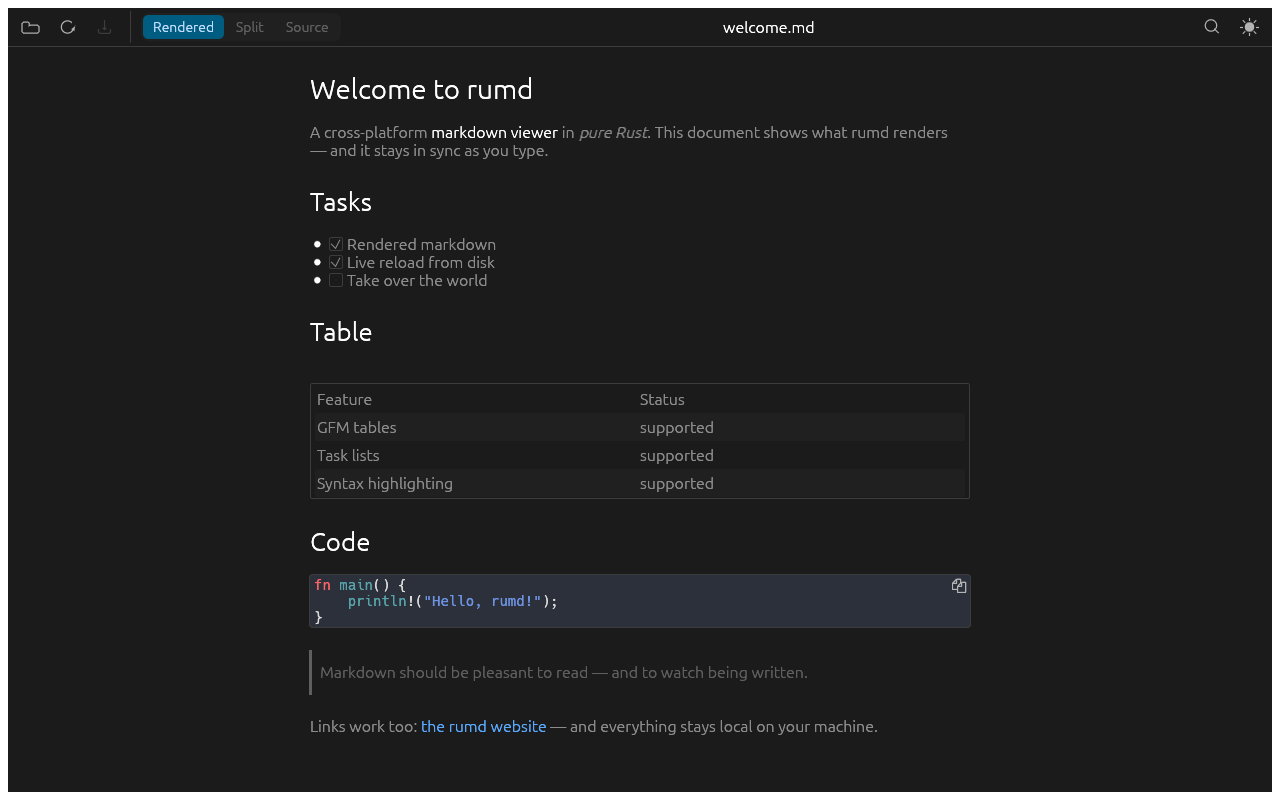
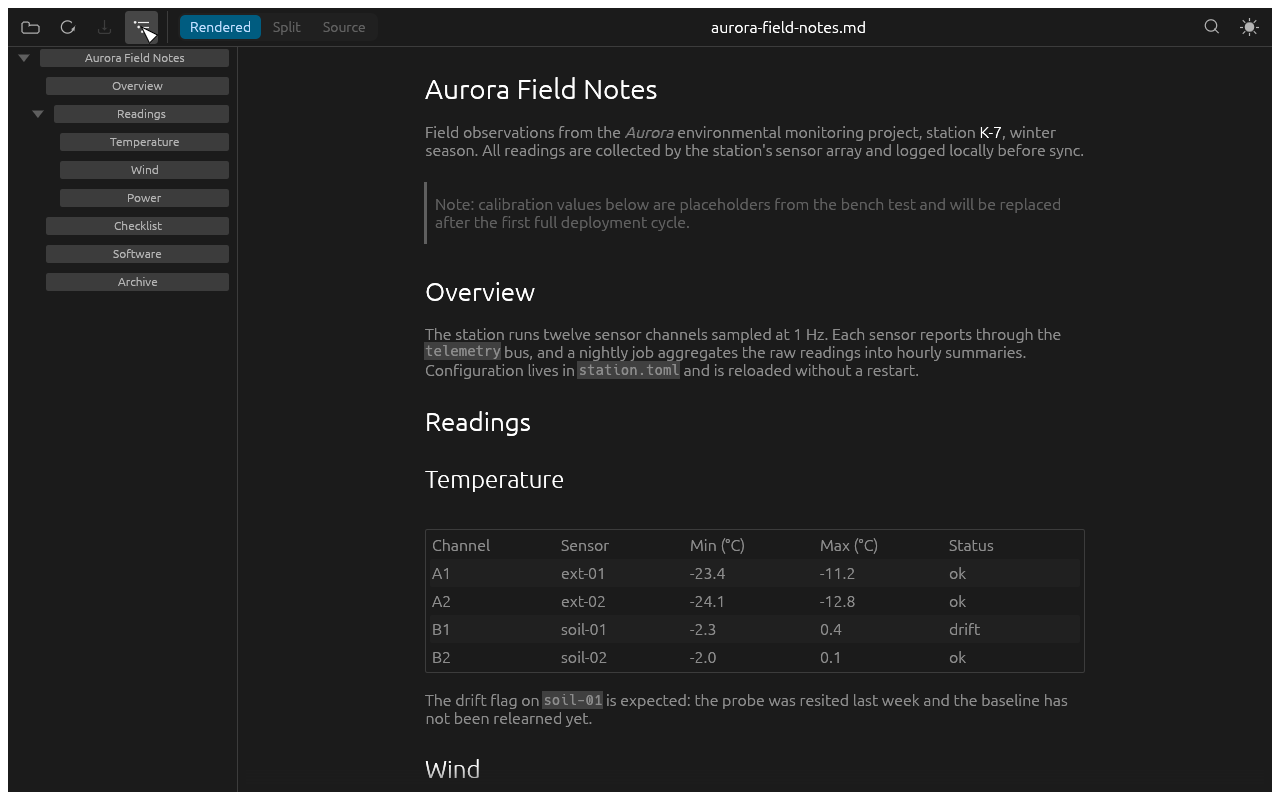
feat: auto-capture website screenshots from a dummy doc on release

diff --git a/src/app.rs b/src/app.rs
@@ -1733,6 +1733,100 @@ mod tests {
         std::fs::remove_file(&doc).unwrap();
     }
 
+    /// Capture the website screenshots into `website/assets/`. Gated behind
+    /// RUMD_CAPTURE=1 so ordinary `cargo test` runs stay hermetic; the
+    /// release workflow runs it with:
+    ///
+    ///     RUMD_CAPTURE=1 cargo test capture_website_screenshots -- --nocapture
+    ///
+    /// Override the destination with RUMD_CAPTURE_DIR. The subject is the
+    /// dummy document in tests/fixtures/sample.md, never a real project
+    /// file.
+    #[test]
+    fn capture_website_screenshots() {
+        if std::env::var("RUMD_CAPTURE").map_or(true, |v| v != "1") {
+            return;
+        }
+        let out_dir = std::env::var("RUMD_CAPTURE_DIR")
+            .map(PathBuf::from)
+            .unwrap_or_else(|_| {
+                PathBuf::from(env!("CARGO_MANIFEST_DIR")).join("website/assets")
+            });
+        std::fs::create_dir_all(&out_dir).unwrap();
+
+        // A friendly dummy name for the website title bar; kept out of
+        // stable_path so the snapshot tests keep their own fixture name.
+        let dir = std::env::temp_dir().join(format!("rumd_capture_{}", std::process::id()));
+        std::fs::create_dir_all(&dir).unwrap();
+        let doc = dir.join("aurora-field-notes.md");
+        let _cwd = CWD_LOCK.lock().unwrap();
+        std::fs::write(&doc, include_str!("../tests/fixtures/sample.md")).unwrap();
+
+        let capture = |name: &str,
+                       theme: egui::ThemePreference,
+                       mode: ViewMode,
+                       toc: bool,
+                       search_query: Option<&str>| {
+            let app = Rc::new(RefCell::new(App::new(None)));
+            {
+                let mut a = app.borrow_mut();
+                a.theme_pref = theme;
+                a.mode = mode;
+                a.open_path(&doc);
+                if let Some(query) = search_query {
+                    a.search.open = true;
+                    a.search.query = query.to_owned();
+                    a.recompute_matches();
+                }
+            }
+            let app_for_ui = app.clone();
+            let mut harness = Harness::builder()
+                .with_size(egui::vec2(1280.0, 800.0))
+                .build_ui(move |ui| {
+                    app_for_ui.borrow_mut().show(ui);
+                });
+            if toc {
+                harness.get_by_label("Table of contents").click();
+            }
+            harness.run();
+            harness.run();
+            let image = harness.render().expect("screenshot render must succeed");
+            image.save(out_dir.join(name)).expect("screenshot save must succeed");
+        };
+
+        capture(
+            "dark-rendered.png",
+            egui::ThemePreference::Dark,
+            ViewMode::Rendered,
+            true,
+            None,
+        );
+        capture(
+            "dark-split.png",
+            egui::ThemePreference::Dark,
+            ViewMode::Split,
+            false,
+            None,
+        );
+        capture(
+            "light-rendered.png",
+            egui::ThemePreference::Light,
+            ViewMode::Rendered,
+            false,
+            None,
+        );
+        capture(
+            "dark-search.png",
+            egui::ThemePreference::Dark,
+            ViewMode::Rendered,
+            false,
+            Some("sensor"),
+        );
+
+        std::fs::remove_file(&doc).unwrap();
+        std::fs::remove_dir(&dir).ok();
+    }
+
     #[test]
     fn top_bar_light_theme_snapshot() {
         let doc = stable_path("top_bar_light");

diff --git a/tests/fixtures/sample.md b/tests/fixtures/sample.md
@@ -1,0 +1,70 @@
+# Aurora Field Notes
+
+Field observations from the *Aurora* environmental monitoring project,
+station **K-7**, winter season. All readings are collected by the station's
+sensor array and logged locally before sync.
+
+> Note: calibration values below are placeholders from the bench test and
+> will be replaced after the first full deployment cycle.
+
+## Overview
+
+The station runs twelve sensor channels sampled at 1 Hz. Each sensor
+reports through the `telemetry` bus, and a nightly job aggregates the raw
+readings into hourly summaries. Configuration lives in `station.toml` and
+is reloaded without a restart.
+
+## Readings
+
+### Temperature
+
+| Channel | Sensor  | Min (°C) | Max (°C) | Status |
+|---------|---------|---------:|---------:|--------|
+| A1      | ext-01  |   -23.4  |   -11.2  | ok     |
+| A2      | ext-02  |   -24.1  |   -12.8  | ok     |
+| B1      | soil-01 |    -2.3  |     0.4  | drift  |
+| B2      | soil-02 |    -2.0  |     0.1  | ok     |
+
+The drift flag on `soil-01` is expected: the probe was resited last week
+and the baseline has not been relearned yet.
+
+### Wind
+
+Anemometer samples are debounced in the driver; gusts are reported as a
+90-second rolling peak. The vane offset correction is `+3.2°` after the
+mount realignment.
+
+### Power
+
+Battery charge ended the month at **87%**, down from 91% in November. The
+heater duty cycle dominates consumption during cold snaps.
+
+## Checklist
+
+- [x] Swap the failed sensor relay on channel B1
+- [x] Re-run the baseline calibration job
+- [ ] Replace the anti-ice wick on the wet bulb
+- [ ] Archive the November raw logs to cold storage
+- [ ] Schedule the spring antenna inspection
+
+## Software
+
+The station firmware is built with the usual toolchain:
+
+```rust
+fn poll_all(channels: &mut [Channel]) -> Summary {
+    let readings: Vec<Reading> = channels
+        .iter_mut()
+        .filter_map(|ch| ch.sample())
+        .collect();
+    Summary::from(readings)
+}
+```
+
+Retries use exponential backoff with jitter; the sync client gives up
+after `6` attempts and queues the batch for the next window.
+
+## Archive
+
+The 2025 log rotation policy ~~deletes~~ retains raw logs for 18 months.
+Compressed summaries are kept indefinitely.

diff --git a/README.md b/README.md
@@ -78,6 +78,21 @@ flatpak-builder --install --system --force-clean build flatpak/io.github.dkijkui
 flatpak run io.github.dkijkuit.rumd
 ```
 
+## Release checklist
+
+1. Bump the version in `Cargo.toml` and commit.
+2. Update the Features and Shortcuts sections here if anything changed.
+3. Mirror those changes on the website (`website/index.html`) — prose only:
+   the version, download links, and screenshots are updated automatically
+   on tag push.
+4. Tag and push the tag:
+   `git tag vX.Y.Z && git push origin vX.Y.Z`
+
+The release workflow then builds the binaries, publishes the release,
+captures fresh website screenshots from `tests/fixtures/sample.md` with
+`RUMD_CAPTURE=1 cargo test capture_website_screenshots`, stamps the tag
+into the website, and deploys it to GitHub Pages.
+
 ## Testing
 
 ```sh
